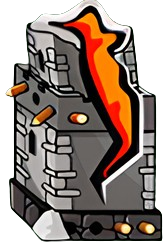
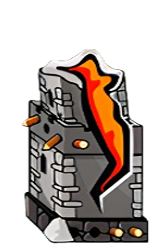
Fix: brokenBase.img
이미지 크기 조정

diff --git a/public/src/clientHandler/stages/stageEnd.js b/public/src/clientHandler/stages/stageEnd.js
@@ -1,5 +1,5 @@
 // 게임 종료: 화면 새로고침
 export const stageEnd = (payload) => {
-  console.log("게임오버")
+  console.log("게임오버");
   location.reload();
 };
